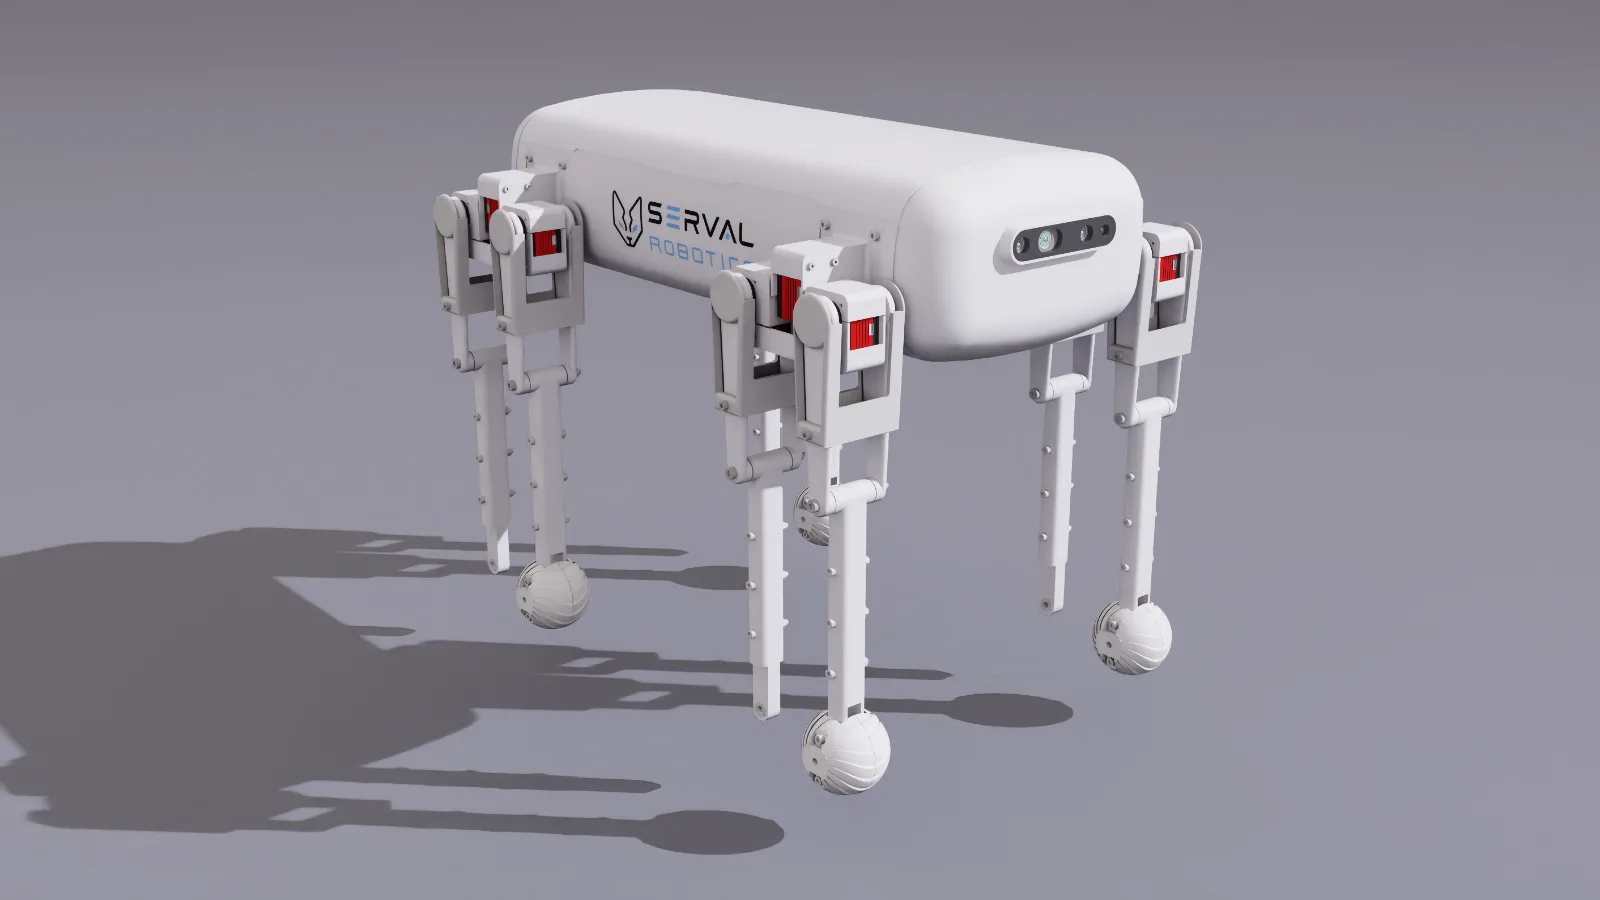
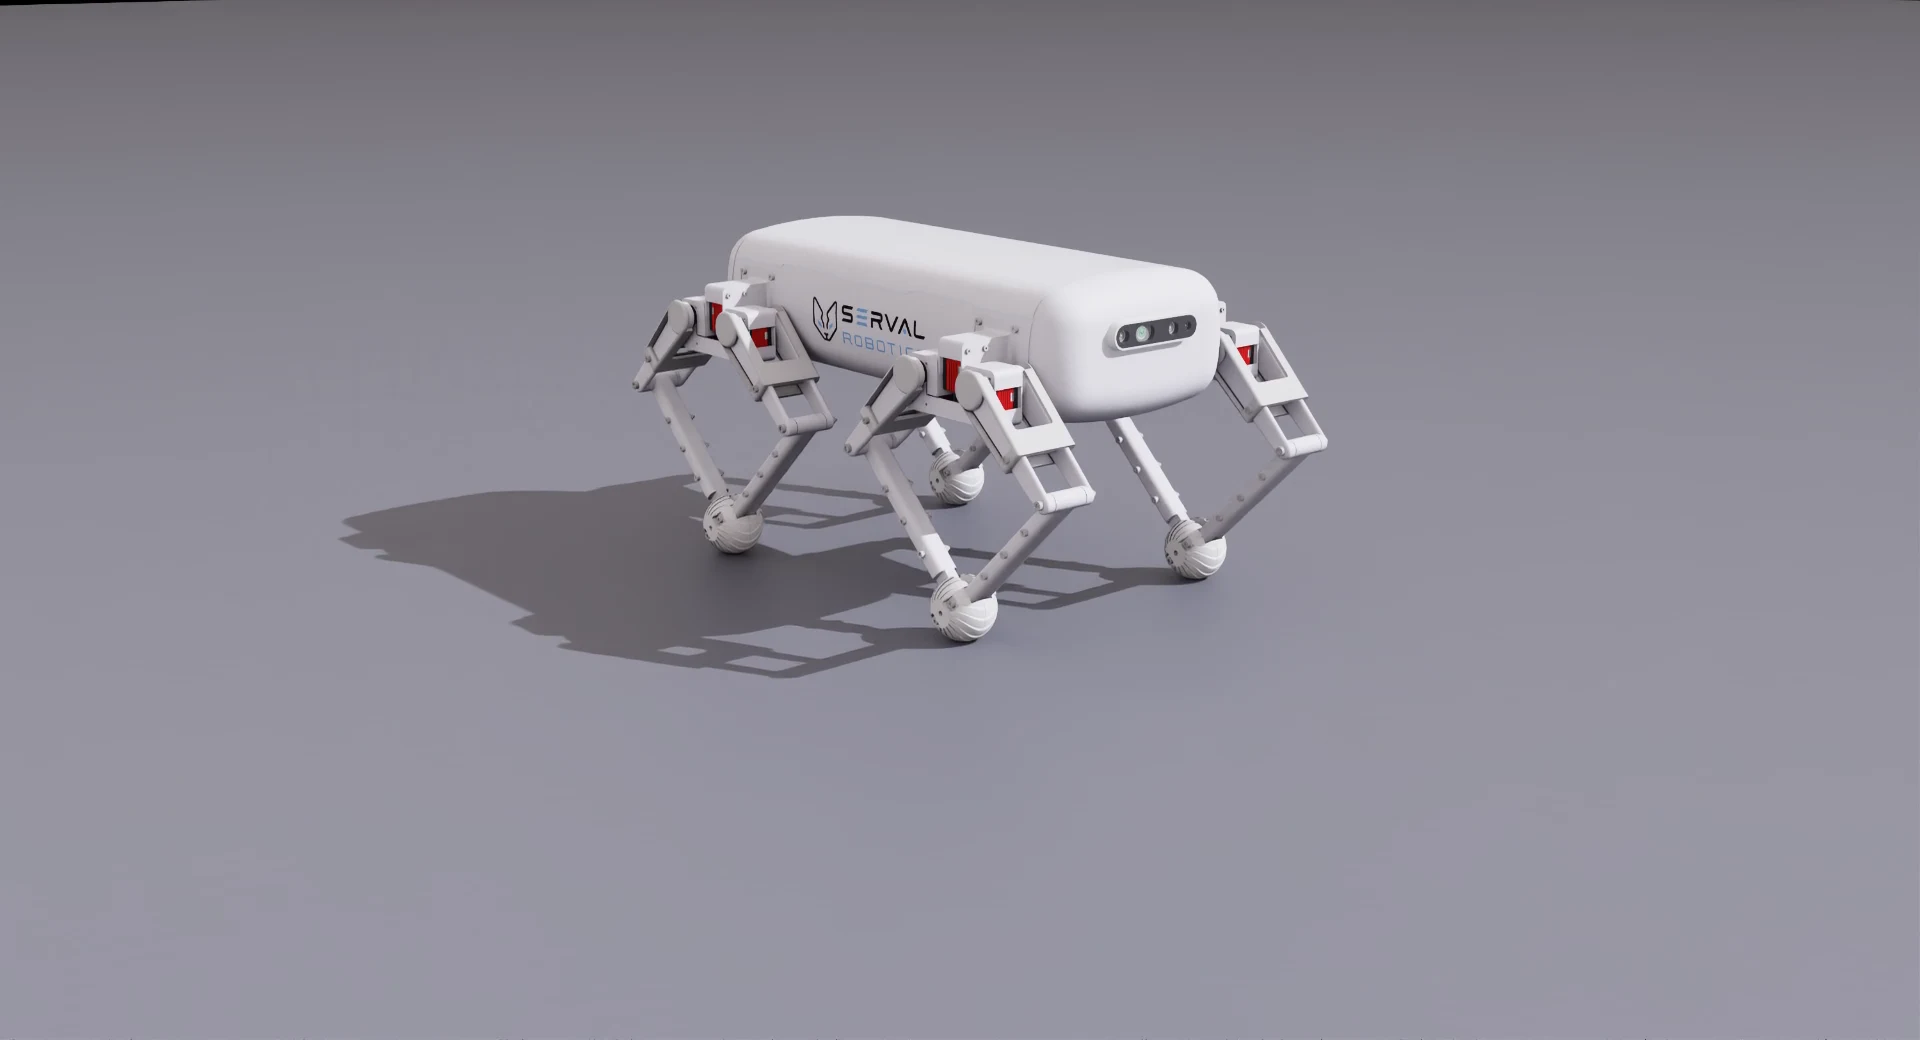
Draw the scene grid from the run itself
The four scene stills were casting poses with the legs splayed; now they
are the same instant of the same recorded walk, rendered in each scene,
which is what the surrounding paragraph claims.

Changed region(s): [[0.0, 0.0933, 0.75, 0.9644], [0.0, 0.0, 0.0625, 0.0311]]

diff --git a/docs/programming/scenarios-and-recording.md b/docs/programming/scenarios-and-recording.md
@@ -18,20 +18,20 @@ re-rendered in NVIDIA Isaac Sim in any of the prepared scenes.
 
 <div class="scene-grid">
   <figure class="render">
-    <img src="../../assets/images/scene-studio.webp" alt="QBot Mini in the studio scene" width="1600" height="900" loading="lazy">
+    <img src="../../assets/images/scene-studio.webp" alt="QBot Mini walking in the studio scene" width="1920" height="1040" loading="lazy">
     <figcaption>studio</figcaption>
   </figure>
   <figure class="render">
-    <img src="../../assets/images/scene-grid-curved.webp" alt="QBot Mini on the curved grid scene" width="1600" height="900" loading="lazy">
-    <figcaption>grid_curved</figcaption>
+    <img src="../../assets/images/scene-room.webp" alt="QBot Mini walking on a wooden floor in the room scene" width="1920" height="1040" loading="lazy">
+    <figcaption>room</figcaption>
   </figure>
   <figure class="render">
-    <img src="../../assets/images/scene-warehouse-shelves.webp" alt="QBot Mini in the warehouse scene, beside pallet racking" width="1600" height="900" loading="lazy">
-    <figcaption>warehouse_shelves</figcaption>
+    <img src="../../assets/images/scene-warehouse.webp" alt="QBot Mini walking across a floor marking in the warehouse scene" width="1920" height="1040" loading="lazy">
+    <figcaption>warehouse</figcaption>
   </figure>
   <figure class="render">
-    <img src="../../assets/images/scene-hospital.webp" alt="QBot Mini in the hospital scene" width="1600" height="900" loading="lazy">
-    <figcaption>hospital</figcaption>
+    <img src="../../assets/images/scene-exhibition.webp" alt="QBot Mini walking on a polished floor in the exhibition scene" width="1920" height="1040" loading="lazy">
+    <figcaption>exhibition</figcaption>
   </figure>
 </div>
 
